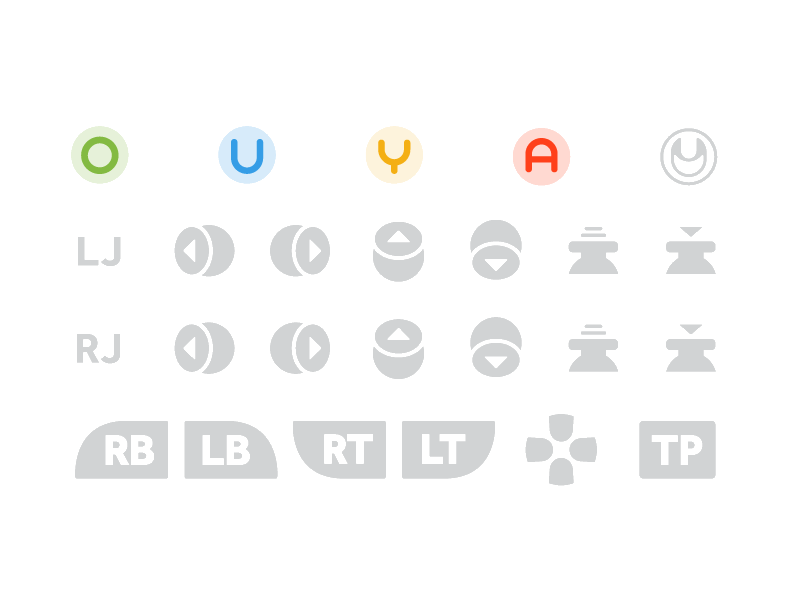
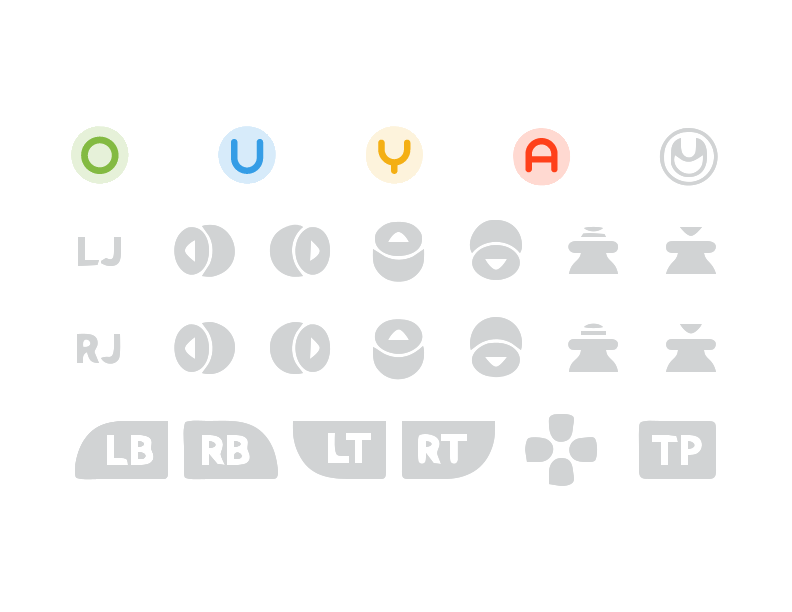
Adding more gamepad uses
- Edited menu buttons
- Edited 'Integrantes' buttons
- Added page scroll by controller sticks
- Changed the name of CSS file

diff --git a/js/gamepad.js b/js/gamepad.js
@@ -6,7 +6,7 @@ function canGame() {
 	return "getGamepads" in navigator;
 }
 //Test the inputs of the Gamepad
-
+/*
 function reportOnGamepad() {
 	var gp = navigator.getGamepads()[0];
 	var html = "";
@@ -17,14 +17,17 @@ function reportOnGamepad() {
 		if(gp.buttons[i].pressed) html+= " pressed";
 		html+= "<br/>";
 	}
-
-	for(var i=0;i<gp.axes.length; i+=2) {
-		html+= "Stick "+(Math.ceil(i/2)+1)+": "+gp.axes[i]+","+gp.axes[i+1]+"<br/>";
-	}
+	
+	html+= "Stick "+0+": "+gp.axes[0]+" | "+gp.axes[1]+"<br/>";
+	html+= "Stick "+1+": "+gp.axes[2]+"<br/>";
+	html+= "Stick "+2+": "+gp.axes[3]+" | "+gp.axes[4]+"<br/>";
+	html+= "Stick "+3+": "+gp.axes[5]+"<br/>";
+	html+= "Stick "+4+": "+gp.axes[6]+" | "+gp.axes[8]+"<br/>";
+	html+= "Stick "+5+": "+gp.axes[9]+"<br/>";
 
 	$("#gamepadDisplay").html(html);
 }
-
+*/
 
 function buttonPressed(b) {
 	if (typeof(b) == "object") {
@@ -40,18 +43,14 @@ $(document).ready(function() {
 		$(window).on("gamepadconnected", function() {
 			hasGP = true;
 			gpConnected = true;
-
 			Materialize.toast('Controller Conected', 3000,'rounded',function(){
 				Materialize.toast('ID: '+navigator.getGamepads()[0].id, 3500, 'rounded');
 			});
-
-			//alert("Conected controller: "+navigator.getGamepads()[0].id+"\n\n Press 'O' to continue!");
-
-			//$(".controller").show();
-			$('.controller').fadeTo('slow', 1, function() {});
-
+			$('.controller').fadeTo('slow', 1, function() {
+				$(this).css({display: 'block'})
+			});
 			console.log("connection event");
-			repGP = window.setInterval(reportOnGamepad,100);
+			//repGP = window.setInterval(reportOnGamepad,100);
 			showBut = window.setInterval(buttonsEvent,100);
 		});
 
@@ -60,7 +59,7 @@ $(document).ready(function() {
 			console.log("disconnection event");
 			Materialize.toast('Controller Disconected', 3000,'rounded');
 			$(".controller").hide();
-			window.clearInterval(repGP);
+			//window.clearInterval(repGP);
 			window.clearInterval(showBut);
 		});
 
@@ -79,22 +78,78 @@ $(document).ready(function() {
 function buttonsEvent() {
 	var gp = navigator.getGamepads()[0];
 
-	if (gp.buttons[5].pressed) {
-		if (gp.buttons[0].pressed) {
-			console.log('pressed');
+
+	if (gp.buttons[4].pressed || gp.buttons[5].pressed){
+		
+		if (gp.buttons[5].pressed && !gp.buttons[4].pressed) { // Top Button Right
+			$(".controller-menu").show('fast');
+			if (gp.buttons[0].pressed) { // Button O
+				window.location.href = '/html5.html';
+			}
+			if (gp.buttons[1].pressed) { // Button U
+				console.log('pressed');
+				window.location.href = '/css3.html';
+			}
+			if (gp.buttons[2].pressed) { // Button Y
+				console.log('pressed');
+				window.location.href = '/jsapi.html';
+			}
 		}
+		
+		else if (gp.buttons[4].pressed && !gp.buttons[5].pressed) { // Top Button Left
+			$(".controller-btn").show('fast');
+
+			if (gp.buttons[0].pressed) { // Button O
+				window.location.href = "#";
+			}
+
+			if (gp.buttons[1].pressed) { // Button U
+				window.location.href = "http://whothey.github.io";
+			}
+
+			if (gp.buttons[2].pressed) { // Button Y
+				window.location.href = "http://tsukini.github.io";
+			}
+		}
+		
+		if (!gp.buttons[4].pressed) {
+			$(".controller-btn").hide('fast');
+		}
+		
+		if (!gp.buttons[5].pressed) {
+			$(".controller-menu").hide('fast');
+		}
+
+	}else {
+		$(".controller-btn").hide('fast');
+		$(".controller-menu").hide('fast');
 	}
 
-	else if (gp.buttons[0].pressed) { //button reportOnGamepad
-		window.location.href = "#";
+	if (gp.axes[4] != 0) {  // Right Stick Y-axis
+		window.scrollBy(0,gp.axes[4]*50);
+		if (gp.axes[4] > 0) {
+			$("#stickR-down").show();
+		}
+		else {
+			$("#stickR-up").show();
+		}
+	} 
+	else if (gp.axes[4] == 0) {
+		$("#stickR-down").hide();
+		$("#stickR-up").hide();
 	}
 
-	else if (gp.buttons[1].pressed) { //button U
-		window.location.href = "http://whothey.github.io";
+	if (gp.axes[3] != 0) {  //Right Stick X-axis
+		window.scrollBy(gp.axes[3]*50,0);
+		if (gp.axes[3] > 0) {
+			$("#stickR-right").show();
+		}
+		else {
+			$("#stickR-left").show();
+		}
+	} 
+	else if (gp.axes[4] == 0) {
+		$("#stickR-right").hide();
+		$("#stickR-left").hide();
 	}
-
-	else if (gp.buttons[2].pressed) { //button Y
-		window.location.href = "http://tsukini.github.io";
-	}
-
 }

diff --git a/index.html b/index.html
@@ -4,32 +4,38 @@
 		<title>Seminario Tecnologias Web</title>
 		<meta charset="utf-8">
 		<link rel="stylesheet" type="text/css" href="css/main.min.css">
-		<link rel="stylesheet" type="text/css" href="css/custom.css">
+		<link rel="stylesheet" type="text/css" href="css/gamepad.css">
 	</head>
 	<body>
+		<span class="controller controller-axes-Yscroll" id="stickR-up"></span>
+		<span class="controller controller-axes-Yscroll" id="stickR-down"></span>
+		<span class="controller controller-axes-Xscroll" id="stickR-left"></span>
+		<span class="controller controller-axes-Xscroll" id="stickR-right"></span>
 		<nav>
 			<div class="nav-wrapper">
-			<a href="#" data-activates="mobile-sidenav" class="button-collapse"><i class="mdi-navigation-menu"></i></a>
+			<a href="#" data-activates="mobile-sidenav" class="button-collapse"><i class="mdi-navigation-menu"></i><span class="controller controller-nav-mobile" id="btRB"></span></a>
 				<a class="brand-logo" href="/">KombiWeb</a>
 				<ul id="nav-mobile" class="right hide-on-med-and-down">
-					<li><a href="/html5.html">HTML5</a></li>
-					<li><a href="/css3.html">CSS3</a></li>
-					<li><a href="/jsapi.html">JS API</a></li>
+					<span class="controller controller-nav" id="btRB"></span>
+					<li><a href="/html5.html"><span class="controller controller-menu" id="btO"></span>HTML5</a></li>
+					<li><a href="/css3.html"><span class="controller controller-menu" id="btU"></span>CSS3</a></li>
+					<li><a href="/jsapi.html"><span class="controller controller-menu" id="btY"></span>JS API</a></li>
 				</ul>
 				<ul id="mobile-sidenav" class="side-nav">
-					<li><a href="/html5.html">HTML5</a></li>
-					<li><a href="/css3.html">CSS3</a></li>
-					<li><a href="/jsapi.html">JS API</a></li>
+					<li><a href="/html5.html"><span class="controller controller-menu" id="btO"></span>HTML5</a></li>
+					<li><a href="/css3.html"><span class="controller controller-menu" id="btU"></span>CSS3</a></li>
+					<li><a href="/jsapi.html"><span class="controller controller-menu" id="btY"></span>JS API</a></li>
 				</ul>
 			</div>
 		</nav>
 		<div class="container">
 			<h1>Seminário de Tecnologias Web</h1>
+			<span class="controller controller-btn-lb" id="btLB"></span>
 			<h3>Integrantes</h3>
 			<ul>
-				<li><a id="btcleiton" class="waves-effect waves-light btn" href="#"><div class="controller controller-btn" id="btO"></div>Cleiton Piccini</a></li>
-				<li><a id="btucra" class="waves-effect waves-light btn" target="_blank" href="http://whothey.github.io"><div class="controller controller-btn" id="btU"></div>Gabriel Henrique Rudey</a></li>
-				<li><a id="bttiago" class="waves-effect waves-light btn" target="_blank" href="http://tsukini.github.io"><div class="controller controller-btn" id="btY"></div>Tiago Adalberto Debastiani</a></li>
+				<li><a id="btcleiton" class="waves-effect waves-light btn" href="#"><span class="controller controller-btn" id="btO"></span>Cleiton Piccini</a></li>
+				<li><a id="btucra" class="waves-effect waves-light btn" target="_blank" href="http://whothey.github.io"><span class="controller controller-btn" id="btU"></span>Gabriel Henrique Rudey</a></li>
+				<li><a id="bttiago" class="waves-effect waves-light btn" target="_blank" href="http://tsukini.github.io"><span class="controller controller-btn" id="btY"></span>Tiago Adalberto Debastiani</a></li>
 			</ul>
 		</div>
 		<!--Gamepad test-->

diff --git a/css/gamepad.css b/css/gamepad.css
@@ -1,0 +1,140 @@
+
+#btcleiton, #btucra, #bttiago {
+	overflow: visible;
+}
+
+.controller-axes-Yscroll {
+	position: fixed;
+	display: block;
+	overflow: visible;
+	right: 0px;
+	top: 50%;
+}
+
+.controller-axes-Xscroll {
+	position: fixed;
+	display: block;
+	overflow: visible;
+	left: 50%;
+	bottom: 0px;
+}
+
+.controller-btn {
+	position: absolute;
+	float: left;
+	display: block;
+	left: -10px;
+	overflow: visible;
+	margin-top: 2px;
+}
+
+.controller-btn-lb {
+	position: absolute;
+	float: left;
+	display: block;
+	overflow: visible;
+	margin-left: -50px;
+	margin-top: 10px;
+}
+
+.controller-menu {
+	position: absolute;
+	float: left;
+	display: block;
+	overflow: visible;
+	bottom: -6px;
+	margin-left: 5px;
+}
+
+.controller-nav-mobile {
+	position: absolute;
+	float: left;
+	display: block;
+	left: 50px;
+	top: 15px;
+	overflow: visible;
+	
+}
+
+.controller-nav {
+	position: absolute;
+	float: left;
+	display: block;
+	right: 10px;
+	top: 70px;
+	overflow: visible;
+}
+
+.controller {
+	display: none;
+}
+
+#btO {
+	background: url('../images/OUYA_BUTTONS.png') no-repeat -35px -63px;
+	background-size: 396px 306px;
+	width: 29px;
+	height: 29px;
+}
+
+#btU {
+	background: url('../images/OUYA_BUTTONS.png') no-repeat -109px -63px;
+	background-size: 396px 306px;
+	width: 29px;
+	height: 29px;
+}
+
+#btY {
+	background: url('../images/OUYA_BUTTONS.png') no-repeat -182px -63px;
+	background-size: 396px 306px;
+	width: 29px;
+	height: 29px;
+}
+
+#btA {
+	background: url('../images/OUYA_BUTTONS.png') no-repeat -256px -64px;
+	background-size: 396px 306px;
+	width: 29px;
+	height: 29px;
+}
+
+#btRB {
+	background: url('../images/OUYA_BUTTONS.png') no-repeat -92px -210px;
+	background-size: 396px 306px;
+	width: 47px;
+	height: 29px;
+}
+
+#btLB {
+	background: url('../images/OUYA_BUTTONS.png') no-repeat -37px -210px;
+	background-size: 396px 306px;
+	width: 47px;
+	height: 30px;
+}
+
+#stickR-down {
+	background: url('../images/OUYA_BUTTONS.png') no-repeat -235px -158px;
+	background-size: 396px 306px;
+	width: 26px;
+	height: 31px;
+}
+
+#stickR-up {
+	background: url('../images/OUYA_BUTTONS.png') no-repeat -186px -159px;
+	background-size: 396px 306px;
+	width: 26px;
+	height: 31px;
+}
+
+#stickR-right {
+	background: url('../images/OUYA_BUTTONS.png') no-repeat -135px -161px;
+	background-size: 396px 306px;
+	width: 31px;
+	height: 26px;
+}
+
+#stickR-left {
+	background: url('../images/OUYA_BUTTONS.png') no-repeat -87px -161px;
+	background-size: 396px 306px;
+	width: 31px;
+	height: 26px;
+}
